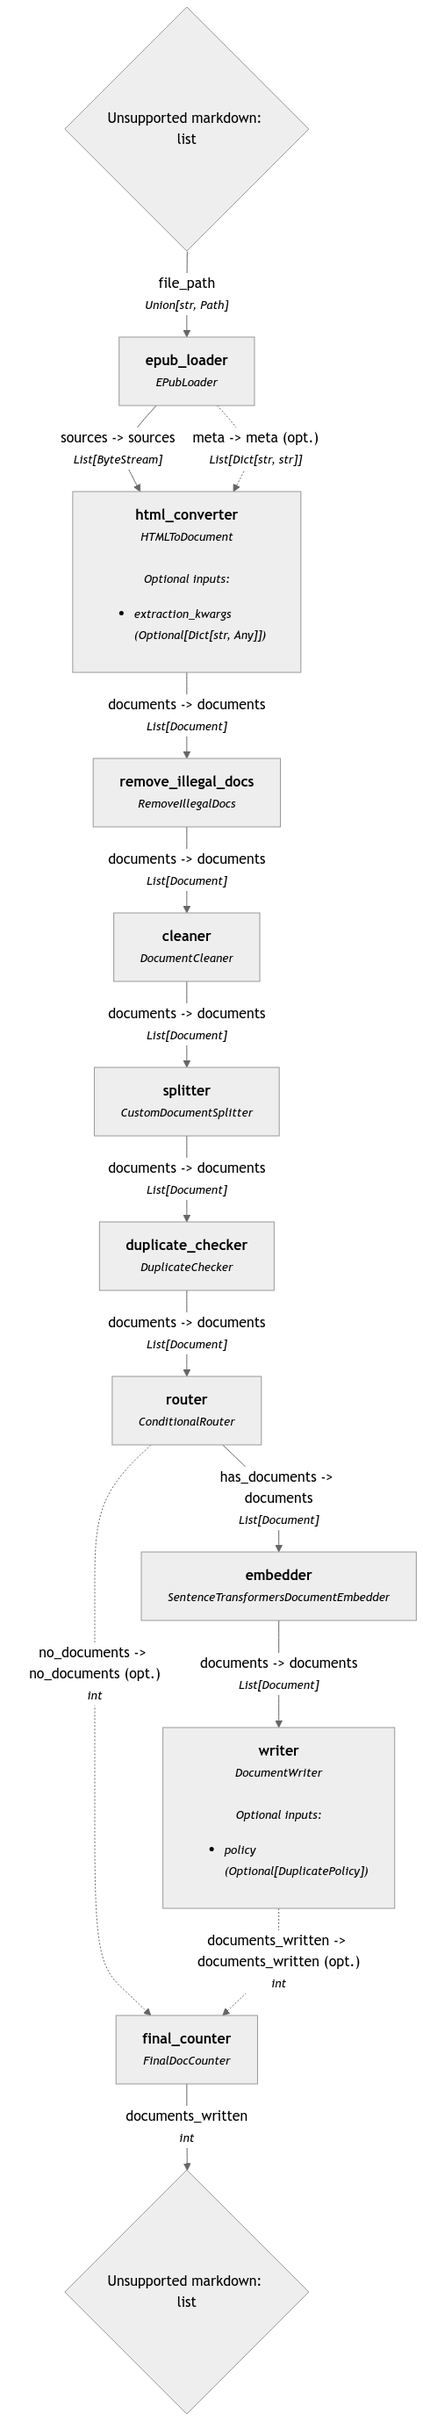
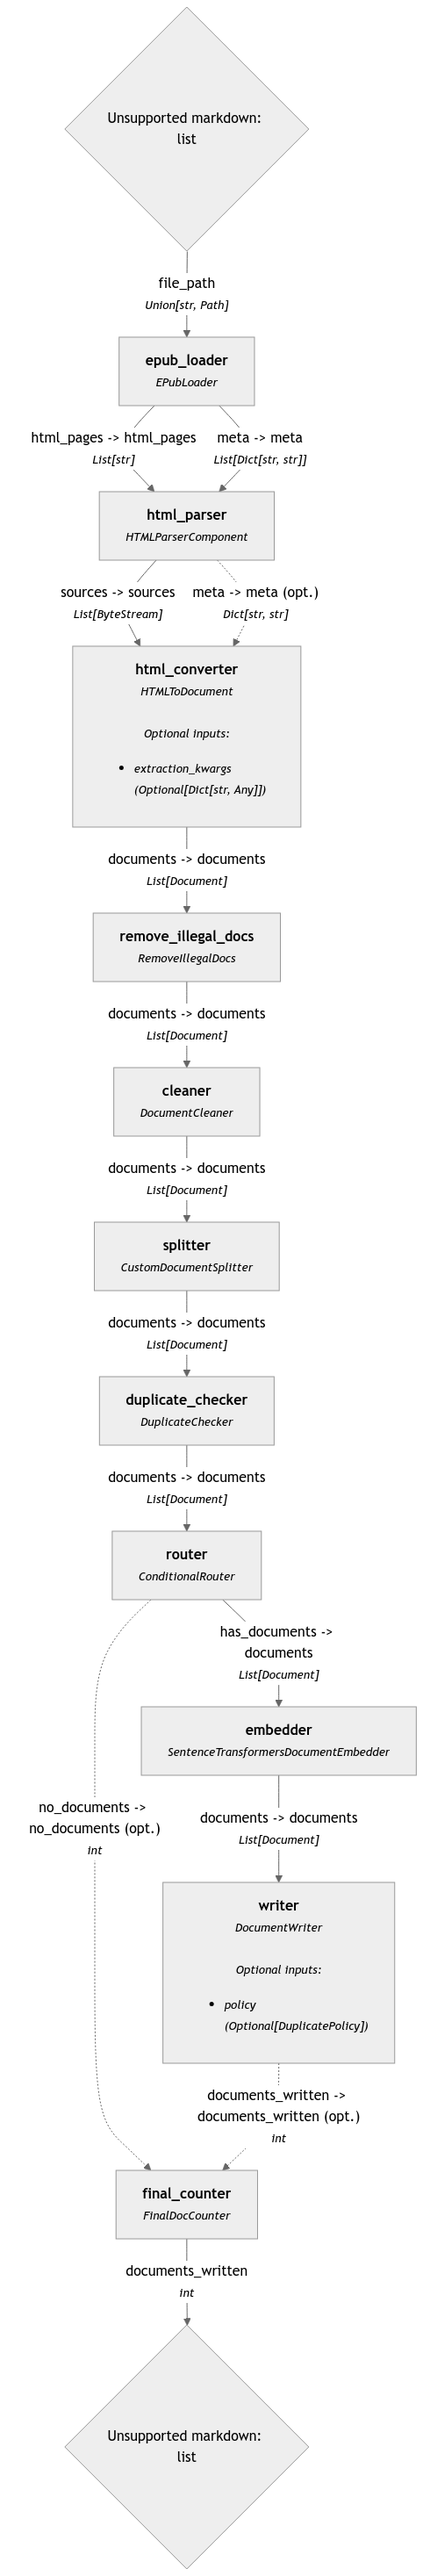
Now using EPub Loader component AND HTML Parser component. Results still match.

diff --git a/custom_haystack_components.py b/custom_haystack_components.py
@@ -24,76 +24,55 @@ from pathlib import Path
 
 @component
 class EPubLoader:
-    def __init__(self, min_paragraph_size: int = 300, min_section_size: int = 1000, verbose: bool = False) -> None:
-        self._min_section_size: int = min_section_size
-        self._min_paragraph_size: int = min_paragraph_size
+    def __init__(self, verbose: bool = False, skip_file: str = "sections_to_skip.csv") -> None:
         self._verbose: bool = verbose
         self._is_directory: bool = False
         self._file_path: str = ""
+        self._skip_file: str = skip_file
         self._sections_to_skip: Dict[str, Set[str]] = {}
 
-    @component.output_types(sources=List[ByteStream], meta=List[Dict[str, str]])
+    @component.output_types(html_pages=List[str], meta=List[Dict[str, str]])
     def run(self, file_path: Union[str, Path]) -> Dict[str, Any]:
         if isinstance(file_path, Path):
             file_path = str(file_path)
         self._file_path = file_path
         self._sections_to_skip = self._load_sections_to_skip()
         # Load the EPUB file
-        sources: List[ByteStream]
+        html_pages: List[str]
         meta: List[Dict[str, str]]
-        sources, meta = self._load_file()
-        return {"sources": sources, "meta": meta}
+        html_pages, meta = self._load_file()
+        return {"html_pages": html_pages, "meta": meta}
 
-    def _load_file(self) -> Tuple[List[ByteStream], List[Dict[str, str]]]:
+    def _load_file(self) -> Tuple[List[str], List[Dict[str, str]]]:
         sources, meta = self._load_epub(self._file_path)
         return sources, meta
 
-    def _load_epub(self, file_path: str) -> Tuple[List[ByteStream], List[Dict[str, str]]]:
-        docs_list: List[ByteStream] = []
-        meta_list: List[Dict[str, str]] = []
-        included_sections: List[str] = []
+    def _load_epub(self, file_path: str) -> Tuple[List[str], List[Dict[str, str]]]:
         book: epub.EpubBook = epub.read_epub(file_path)
         self._print_verbose()
-        self._print_verbose(f"Book Title: {book.title}")
-        section_num: int = 1
+        self._print_verbose(f"Loaded Book: {book.title}")
         book_meta_data: Dict[str, str] = {
             "book_title": book.title,
             "file_path": file_path
         }
         i: int
         item: epub.EpubHtml
+        html_pages: List[str] = []
+        meta_data: List[Dict[str, str]] = []
         for i, item in enumerate(book.get_items_of_type(ITEM_DOCUMENT)):
-            item_meta_data: Dict[str, str] = {
-                "item_num": str(section_num),
-                "item_id": item.id,
-            }
-            book_meta_data.update(item_meta_data)
-            item_html: str = item.get_body_content().decode('utf-8')
-            
-            parser = HTMLParser(item_html, book_meta_data, min_paragraph_size=self._min_paragraph_size)
-            temp_docs: List[ByteStream]
-            temp_meta: List[Dict[str, str]]
-            temp_docs, temp_meta = parser.run()
-
-            if (parser.total_text_length() > self._min_section_size
-                    and item.id not in self._sections_to_skip.get(book.title, set())):
-                self._print_verbose(f"Book: {book.title}; Section #{section_num}. "
-                                    f"Chapter: {parser.chapter_title}. "
-                                    f"Length: {parser.total_text_length()}")
-                docs_list.extend(temp_docs)
-                meta_list.extend(temp_meta)
-                included_sections.append(book.title + ", " + item.id)
-                section_num += 1
+            if item.id not in self._sections_to_skip.get(book.title, set()):
+                item_meta_data: Dict[str, str] = {
+                    "item_num": 0,
+                    "item_id": item.id
+                }
+                book_meta_data.update(item_meta_data)
+                item_html: str = item.get_body_content().decode('utf-8')
+                html_pages.append(item_html)
+                meta_data.append(book_meta_data.copy())
             else:
-                self._print_verbose(f"Book: {book.title}; Chapter: {parser.chapter_title}. "
-                                    f"Length: {parser.total_text_length()}. Skipped.")
+                self._print_verbose(f"Book: {book.title}; Section Title: {item.id}. User Skipped.")
 
-        self._print_verbose(f"Sections included:")
-        for item in included_sections:
-            self._print_verbose(item)
-        self._print_verbose()
-
-        return docs_list, meta_list
+        return html_pages, meta_data
 
     def _print_verbose(self, *args, **kwargs) -> None:
         if self._verbose:
@@ -102,10 +81,10 @@ class EPubLoader:
     def _load_sections_to_skip(self) -> Dict[str, Set[str]]:
         sections_to_skip: Dict[str, Set[str]] = {}
         if self._is_directory:
-            csv_path = Path(self._file_path) / "sections_to_skip.csv"
+            csv_path = Path(self._file_path) / self._skip_file
         else:
             # Get the directory of the file and then look for the csv file in that directory
-            csv_path = Path(self._file_path).parent / "sections_to_skip.csv"
+            csv_path = Path(self._file_path).parent / self._skip_file
 
         if csv_path.exists():
             with open(csv_path, 'r', newline='', encoding='utf-8') as csvfile:
@@ -130,13 +109,51 @@ class EPubLoader:
 
 @component
 class HTMLParserComponent:
-    @component.output_types(documents=List[Document], meta_data=Dict[str, str])
-    def run(self, html_page: str, page_meta_data: Dict[str, str]) -> Dict[str, Any]:
-        parser = HTMLParser(html_page, page_meta_data)
-        documents: List[ByteStream]
-        meta_data: List[Dict[str, str]]
-        documents, meta_data = parser.run()
-        return {"documents": documents, "meta_data": meta_data}
+    def __init__(self, min_paragraph_size: int = 300, min_section_size: int = 1000, verbose: bool = False) -> None:
+        self._min_section_size: int = min_section_size
+        self._min_paragraph_size: int = min_paragraph_size
+        self._verbose: bool = verbose
+        self._sections_to_skip: Dict[str, Set[str]] = {}
+
+    @component.output_types(sources=List[ByteStream], meta=Dict[str, str])
+    def run(self, html_pages: List[str], meta: List[Dict[str, str]]) -> Dict[str, Any]:
+        docs_list: List[ByteStream] = []
+        meta_list: List[Dict[str, str]] = []
+        included_sections: List[str] = []
+        section_num: int = 1
+
+        for i, html_page in enumerate(html_pages):
+            page_meta_data: Dict[str, str] = meta[i]
+            parser = HTMLParser(html_page, page_meta_data, min_paragraph_size=self._min_paragraph_size)
+            temp_docs: List[ByteStream]
+            temp_meta: List[Dict[str, str]]
+            temp_docs, temp_meta = parser.run()
+            item_id: str = page_meta_data.get("item_id", "")
+            book_title: str = page_meta_data.get("book_title", "")
+            if (parser.total_text_length() > self._min_section_size
+                    and item_id not in self._sections_to_skip.get(book_title, set())):
+                self._print_verbose(f"Book: {book_title}; Section {section_num}. "
+                                    f"Section Title: {parser.chapter_title}. "
+                                    f"Length: {parser.total_text_length()}")
+                # Add section number to metadata
+                [meta.update({"item_num": str(section_num)}) for meta in temp_meta]
+                docs_list.extend(temp_docs)
+                meta_list.extend(temp_meta)
+                included_sections.append(book_title + ", " + item_id)
+                section_num += 1
+            else:
+                self._print_verbose(f"Book: {book_title}; Title: {parser.chapter_title}. "
+                                    f"Length: {parser.total_text_length()}. Skipped.")
+
+        self._print_verbose(f"Sections included:")
+        for item in included_sections:
+            self._print_verbose(item)
+        self._print_verbose()
+        return {"sources": docs_list, "meta": meta_list}
+
+    def _print_verbose(self, *args, **kwargs) -> None:
+        if self._verbose:
+            print(*args, **kwargs)
 
 
 def print_documents(documents: List[Document]) -> None:

diff --git a/document_processor.py b/document_processor.py
@@ -29,7 +29,7 @@ from typing_extensions import Set
 from generator_model import get_secret
 from doc_content_checker import skip_content
 from custom_haystack_components import (CustomDocumentSplitter, RemoveIllegalDocs, FinalDocCounter, DuplicateChecker,
-                                        EPubLoader)
+                                        EPubLoader, HTMLParserComponent)
 import csv
 
 
@@ -83,10 +83,6 @@ class DocumentProcessor:
         self._postgres_connection_str: str = (f"postgresql://{postgres_user_name}:{postgres_password}@"
                                               f"{postgres_host}:{postgres_port}/{postgres_db_name}")
 
-        # Sections to skip
-        self._sections_to_skip: Dict[str, Set[str]] = self._load_sections_to_skip()
-        for book_title, sections in self._sections_to_skip.items():
-            self._print_verbose(f"Skipping sections for book '{book_title}': {sections}")
         self._print_verbose("Initializing document store")
 
         self._document_store: Optional[PgvectorDocumentStore] = None
@@ -128,34 +124,6 @@ class DocumentProcessor:
             return self._sentence_embedder.embedding_backend.model.get_sentence_embedding_dimension()
         else:
             return None
-
-    def _load_sections_to_skip(self) -> Dict[str, Set[str]]:
-        sections_to_skip: Dict[str, Set[str]] = {}
-        if self._is_directory:
-            csv_path = Path(self._file_or_folder_path) / "sections_to_skip.csv"
-        else:
-            # Get the directory of the file and then look for the csv file in that directory
-            csv_path = Path(self._file_or_folder_path).parent / "sections_to_skip.csv"
-
-        if csv_path.exists():
-            with open(csv_path, 'r', newline='', encoding='utf-8') as csvfile:
-                reader: csv.DictReader[str] = csv.DictReader(csvfile)
-                row: dict[str, str]
-                for row in reader:
-                    book_title: str = row['Book Title'].strip()
-                    section_title: str = row['Section Title'].strip()
-                    if book_title and section_title:
-                        if book_title not in sections_to_skip:
-                            sections_to_skip[book_title] = set()
-                        sections_to_skip[book_title].add(section_title)
-
-            # Count total sections to skip across all books
-            skip_count: int = sum(len(sections) for _, sections in sections_to_skip.items())
-            self._print_verbose(f"Loaded {skip_count} sections to skip.")
-        else:
-            self._print_verbose("No sections_to_skip.csv file found. Processing all sections.")
-
-        return sections_to_skip
 
     def _print_verbose(self, *args, **kwargs) -> None:
         if self._verbose:
@@ -213,10 +181,11 @@ class DocumentProcessor:
 
         # Create the document conversion pipeline
         doc_convert_pipe: Pipeline = Pipeline()
-        doc_convert_pipe.add_component("epub_loader", EPubLoader(min_paragraph_size=self._min_paragraph_size,
-                                                                 min_section_size=self._min_section_size,
-                                                                 verbose=self._verbose))
-        # doc_convert_pipe.add_component("html_parser", HTMLParserComponent())
+        doc_convert_pipe.add_component("epub_loader", EPubLoader(verbose=self._verbose))
+        doc_convert_pipe.add_component("html_parser",
+                                       HTMLParserComponent(min_paragraph_size=self._min_paragraph_size,
+                                                           min_section_size=self._min_section_size,
+                                                           verbose=self._verbose))
         doc_convert_pipe.add_component("html_converter", HTMLToDocument())
         doc_convert_pipe.add_component("remove_illegal_docs", instance=RemoveIllegalDocs())
         doc_convert_pipe.add_component("cleaner", DocumentCleaner())
@@ -229,9 +198,10 @@ class DocumentProcessor:
                                                       policy=DuplicatePolicy.OVERWRITE))
         doc_convert_pipe.add_component("final_counter", FinalDocCounter())
 
-        doc_convert_pipe.connect("epub_loader.sources", "html_converter.sources")
-        doc_convert_pipe.connect("epub_loader.meta", "html_converter.meta")
-        # doc_convert_pipe.connect("html_parser", "converter")
+        doc_convert_pipe.connect("epub_loader.html_pages", "html_parser.html_pages")
+        doc_convert_pipe.connect("epub_loader.meta", "html_parser.meta")
+        doc_convert_pipe.connect("html_parser.sources", "html_converter.sources")
+        doc_convert_pipe.connect("html_parser.meta", "html_converter.meta")
         doc_convert_pipe.connect("html_converter", "remove_illegal_docs")
         doc_convert_pipe.connect("remove_illegal_docs", "cleaner")
         doc_convert_pipe.connect("cleaner", "splitter")
